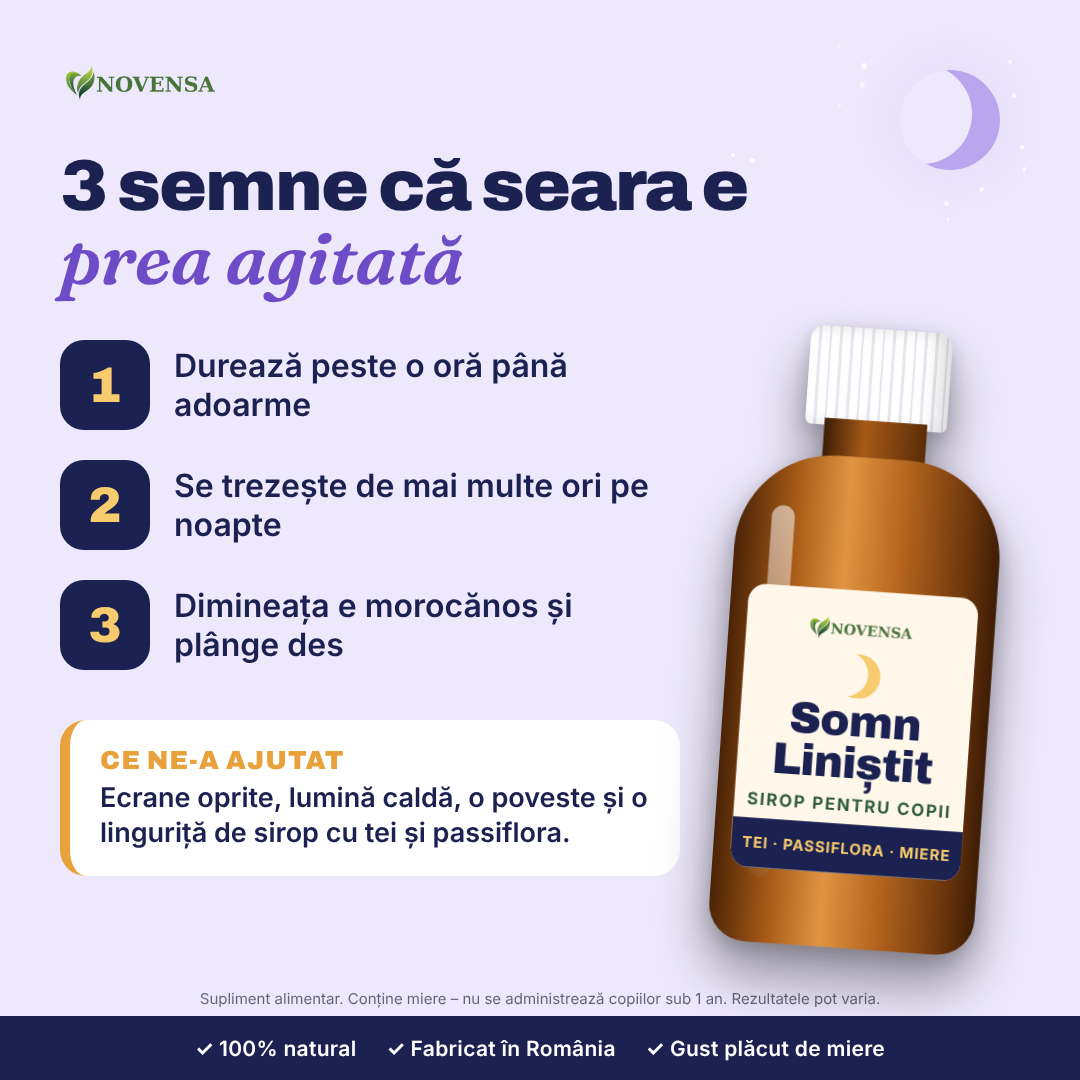
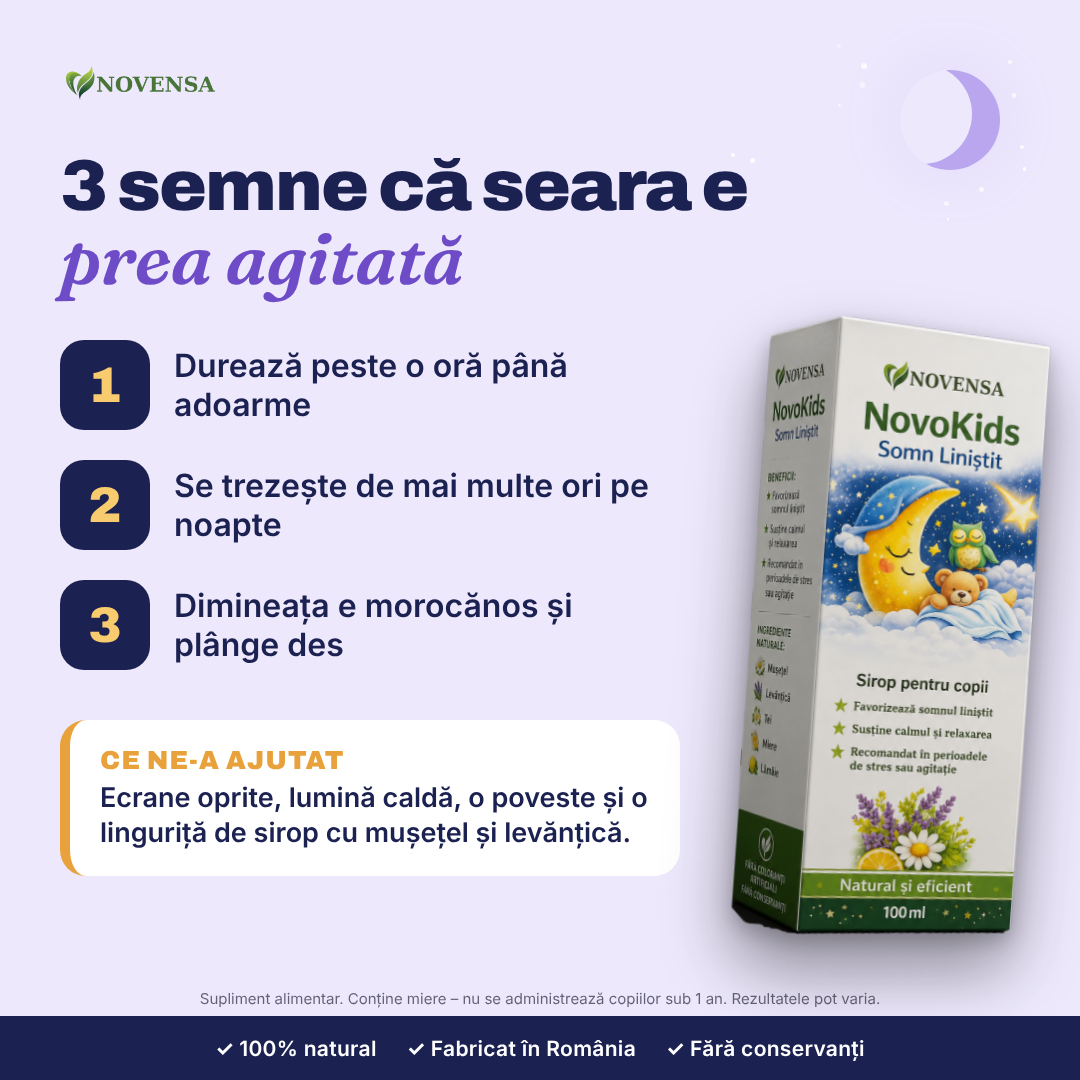
Use real NovoKids box in kids sleep ads; match copy to box ingredients
Box lists chamomile, lavender, linden, honey, lemon (no passionflower),
so ad copy and ingredient icons follow the packaging.

Claude-Session: https://claude.ai/code/session_01Jq63QRdcYFJUVrB9UqU5c4

Changed region(s): [[0.6417, 0.275, 1.0, 0.9167], [0.1833, 0.9472, 0.825, 0.9778], [0.3361, 0.7639, 0.5806, 0.7944]]

diff --git a/brand/somn-copii/ads.js b/brand/somn-copii/ads.js
@@ -1,7 +1,7 @@
 // Novokids Somn Liniștit (sirop pentru copii) – 10 statice Facebook/Instagram, 1080x1080.
 // Render: node render.js [id-filter]
-// Poza reală a sticlei: pune un PNG decupat (fundal transparent) în somn-copii/product.png și re-randează.
-// Până atunci se folosește o sticlă ilustrată (placeholder).
+// Produsul: somn-copii/product.png (cutia NovoKids decupată din sirsom.png). Fără el se folosește o sticlă ilustrată.
+// Ingrediente conform cutiei: mușețel, levănțică, tei, miere, lămâie.
 const fs = require('fs'), path = require('path');
 
 const FONTS = `
@@ -70,10 +70,10 @@ const bottle = (h, x, y, rot = 0) => fs.existsSync(REAL)
   : `<div class="btl" style="left:${x}px;top:${y}px;transform:rotate(${rot}deg) scale(${(h / 700).toFixed(3)})">
       <div class="cap"></div><div class="neck"></div>
       <div class="body"><div class="shine"></div><div class="label"><img src="${LOGO}"><div class="moonl"></div>
-      <b>Somn<br>Liniștit</b><small>sirop pentru copii</small><div class="band">TEI · PASSIFLORA · MIERE</div></div></div></div>`;
+      <b>Somn<br>Liniștit</b><small>sirop pentru copii</small><div class="band">MUȘEȚEL · LEVĂNȚICĂ · TEI</div></div></div></div>`;
 const logo = (x, y, h = 46, extra = '') => `<img class="logo" src="${LOGO}" style="left:${x}px;top:${y}px;height:${h}px;${extra}">`;
 const white = 'filter:brightness(0) invert(1)';
-const foot = (bg, fg) => `<div class="foot" style="background:${bg};color:${fg}"><span>100% natural</span><span>Fabricat în România</span><span>Gust plăcut de miere</span></div>`;
+const foot = (bg, fg) => `<div class="foot" style="background:${bg};color:${fg}"><span>100% natural</span><span>Fabricat în România</span><span>Fără conservanți</span></div>`;
 const disc = (c = C.ink, t = 'Supliment alimentar. Conține miere – nu se administrează copiilor sub 1 an. Rezultatele pot varia.') => `<div class="disc" style="color:${c}">${t}</div>`;
 const page = (css, body) => `<!doctype html><html lang="ro"><head><meta charset="utf-8"><style>${CSS}${css}</style></head><body>${body}</body></html>`;
 
@@ -94,6 +94,9 @@ const ico = {
   pasi: () => `<svg viewBox="0 0 100 100">${Array.from({ length: 10 }, (_, i) => `<ellipse cx="50" cy="22" rx="9" ry="22" fill="#fff" stroke="#B9A6EE" stroke-width="2" transform="rotate(${i * 36} 50 50)"/>`).join('')}${Array.from({ length: 24 }, (_, i) => `<line x1="50" y1="50" x2="50" y2="22" stroke="#6E4BC7" stroke-width="2.4" transform="rotate(${i * 15} 50 50)"/>`).join('')}<circle cx="50" cy="50" r="12" fill="#8DBE5A"/><circle cx="50" cy="50" r="5" fill="#F2C94C"/></svg>`,
   miere: () => `<svg viewBox="0 0 100 100"><path d="M50 10C50 10 22 46 22 64a28 28 0 0 0 56 0C78 46 50 10 50 10Z" fill="#E9A23B"/><ellipse cx="40" cy="62" rx="6" ry="12" fill="#fff" opacity=".45"/></svg>`,
   apa: () => `<svg viewBox="0 0 100 100"><path d="M50 10C50 10 22 46 22 64a28 28 0 0 0 56 0C78 46 50 10 50 10Z" fill="#6FB7E8"/><ellipse cx="40" cy="62" rx="6" ry="12" fill="#fff" opacity=".55"/></svg>`,
+  musetel: () => `<svg viewBox="0 0 100 100">${Array.from({ length: 14 }, (_, i) => `<ellipse cx="50" cy="24" rx="7" ry="20" fill="#fff" stroke="#E4E0D4" stroke-width="1.5" transform="rotate(${i * 25.7} 50 50)"/>`).join('')}<circle cx="50" cy="50" r="15" fill="#F5B92E"/><circle cx="46" cy="46" r="5" fill="#FFD866"/></svg>`,
+  lavanda: () => `<svg viewBox="0 0 100 100"><path d="M50 95V30" stroke="#6B9A4A" stroke-width="4" stroke-linecap="round"/><path d="M50 70 34 58M50 78 66 66" stroke="#6B9A4A" stroke-width="3.5" stroke-linecap="round"/>${[14, 24, 34, 44, 54].map((y, i) => `<ellipse cx="${i % 2 ? 57 : 43}" cy="${y}" rx="8" ry="6" fill="${i % 2 ? '#8E6FD8' : '#A68BE6'}"/><ellipse cx="${i % 2 ? 43 : 57}" cy="${y + 4}" rx="8" ry="6" fill="#7A5AC9"/>`).join('')}</svg>`,
+  lamaie: () => `<svg viewBox="0 0 100 100"><circle cx="50" cy="50" r="40" fill="#F5C518"/><circle cx="50" cy="50" r="33" fill="#FFF3B0"/>${Array.from({ length: 8 }, (_, i) => `<path d="M50 50 L${50 + 30 * Math.cos(i * Math.PI / 4 - .3)} ${50 + 30 * Math.sin(i * Math.PI / 4 - .3)} A30 30 0 0 1 ${50 + 30 * Math.cos(i * Math.PI / 4 + .3)} ${50 + 30 * Math.sin(i * Math.PI / 4 + .3)}Z" fill="#FFD84A"/>`).join('')}<circle cx="50" cy="50" r="4" fill="#fff"/></svg>`,
   cup: () => `<svg viewBox="0 0 200 170"><path d="M60 30c-6-14 8-18 2-30M100 30c-6-14 8-18 2-30" stroke="#C9B79A" stroke-width="5" fill="none" stroke-linecap="round"/><path d="M20 50h140v40a70 70 0 0 1-140 0Z" fill="#fff" stroke="#E2D3B8" stroke-width="4"/><path d="M160 64c30 0 30 44 0 44" stroke="#E2D3B8" stroke-width="12" fill="none"/><ellipse cx="90" cy="54" rx="66" ry="8" fill="#D9A441"/><ellipse cx="90" cy="162" rx="90" ry="8" fill="#000" opacity=".08"/></svg>`,
 };
 const leaf = (s, x, y, rot, c = C.linden, o = 1) => `<div class="abs" style="left:${x}px;top:${y}px;width:${s}px;height:${s}px;transform:rotate(${rot}deg);opacity:${o}">${ico.tei(c)}</div>`;
@@ -108,7 +111,7 @@ ads.push({ id: 'S01-ora-2347', html: page(`body{background:radial-gradient(circl
   ${logo(60, 60, 44, white)}
   <div class="abs clock" style="left:56px;top:150px">23:47</div>
   <div class="abs h" style="left:60px;top:340px;width:600px;font-size:62px">A treia trezire<br>în seara asta.</div>
-  <div class="abs it" style="left:60px;top:490px;width:600px;font-size:54px;line-height:1.1;color:${C.lav}">Până am descoperit siropul cu tei și floarea pasiunii.</div>
+  <div class="abs it" style="left:60px;top:490px;width:600px;font-size:50px;line-height:1.1;color:${C.lav}">Până am descoperit siropul cu mușețel, levănțică și tei.</div>
   <div class="abs" style="left:60px;top:690px;display:flex;flex-direction:column;gap:14px">
     <div class="pill" style="background:${C.moon};color:${C.night}">🌙 O linguriță seara</div>
     <div class="pill" style="background:rgba(255,255,255,.12);color:#fff">Relaxat în 20–30 de minute*</div></div>
@@ -116,18 +119,18 @@ ads.push({ id: 'S01-ora-2347', html: page(`body{background:radial-gradient(circl
   ${bottle(700, 720, 250, 5)}${disc('#cfd1ef')}${foot(C.moon, C.night)}`) });
 
 // 2. Doar 4 ingrediente – persona C (mama naturistă)
-const ing4 = [['tei', 'Flori de tei', 'calm blând', 70, 380, C.linden], ['pasi', 'Floarea pasiunii', 'relaxare naturală', 70, 620, null], ['miere', 'Miere polifloră', 'gust plăcut', 760, 380, null], ['apa', 'Apă purificată', 'atât.', 760, 620, null]];
-ads.push({ id: 'S02-4-ingrediente', html: page(`body{background:${C.cream}}
+const ing4 = [['musetel', 'Mușețel', 'calm blând', 60, 310, null], ['lavanda', 'Levănțică', 'relaxare', 60, 520, null], ['tei', 'Tei', '„ceaiul bunicii”', 60, 730, C.linden], ['miere', 'Miere', 'gust plăcut', 750, 400, null], ['lamaie', 'Lămâie', 'prospețime', 750, 620, null]];
+ads.push({ id: 'S02-5-ingrediente', html: page(`body{background:${C.cream}}
   .ing{position:absolute;width:270px;display:flex;flex-direction:column;align-items:center;text-align:center}
-  .ing .c{width:130px;height:130px;border-radius:50%;background:#fff;box-shadow:0 12px 30px rgba(120,90,40,.15);display:flex;align-items:center;justify-content:center}
+  .ing .c{width:120px;height:120px;border-radius:50%;background:#fff;box-shadow:0 12px 30px rgba(120,90,40,.15);display:flex;align-items:center;justify-content:center}
   .ing .c svg{width:84px;height:84px}
   .ing b{margin-top:14px;font:900 30px Archivo;color:${C.night};letter-spacing:-.5px}.ing small{font:400 24px Inter;color:#6b6457}`,
   `${leaf(160, -40, 860, 30, C.linden, .25)}${leaf(120, 960, 220, -20, C.linden, .25)}
   ${logo(440, 50, 46)}
-  <div class="abs h" style="left:0;right:0;top:140px;text-align:center;font-size:80px;color:${C.night}">Doar <span class="it" style="color:${C.honey}">4 ingrediente.</span></div>
-  <div class="abs" style="left:0;right:0;top:240px;text-align:center;font:600 32px Inter;color:#5d5648">Știi exact ce îi dai celui mic.</div>
+  <div class="abs h" style="left:0;right:0;top:135px;text-align:center;font-size:66px;color:${C.night}">5 ingrediente. <span class="it" style="color:${C.honey}">100% naturale.</span></div>
+  <div class="abs" style="left:0;right:0;top:225px;text-align:center;font:600 30px Inter;color:#5d5648">Fără coloranți artificiali · Fără conservanți</div>
   ${ing4.map(([k, n, s, x, y, c]) => `<div class="ing" style="left:${x}px;top:${y}px"><div class="c">${ico[k](c)}</div><b>${n}</b><small>${s}</small></div>`).join('')}
-  ${bottle(620, 410, 330)}${disc()}${foot(C.night, '#fff')}`) });
+  ${bottle(640, 395, 300)}${disc()}${foot(C.night, '#fff')}`) });
 
 // 3. Seara: înainte / acum – persona B
 ads.push({ id: 'S03-seara-inainte-acum', html: page(`body{background:#fff}
@@ -191,8 +194,8 @@ ads.push({ id: 'S07-reteta-bunicii', html: page(`body{background:${C.sand}}
   `${leaf(150, 860, 40, 25)}${leaf(110, 960, 170, -15, C.leaf)}${leaf(130, -30, 880, 40, C.leaf, .5)}
   ${logo(60, 60, 46)}
   <div class="abs h" style="left:60px;top:160px;width:640px;font-size:84px;color:${C.leaf}">Rețeta bunicii,<br><span class="it" style="color:${C.honey}">într-o linguriță.</span></div>
-  <div class="note"><div class="hand" style="font-size:46px;line-height:1.08;color:#4a3b22">„Pe vremea noastră, la culcare era ceai de tei. Acum e tei, floarea pasiunii și miere – și îl beau cu plăcere!”</div>
-  <div style="margin-top:14px;font:700 22px Inter;color:#8a7650">– Bunica Maria 💛</div></div>
+  <div class="note"><div class="hand" style="font-size:46px;line-height:1.08;color:#4a3b22">„Pe vremea noastră, la culcare era ceai de tei. Acum e tei, mușețel, levănțică și miere – și îl beau cu plăcere!”</div>
+  <div style="margin-top:14px;font:700 22px Inter;color:#8a7650">– așa zice bunica 💛</div></div>
   <div class="abs" style="left:430px;top:770px;width:220px">${ico.cup()}</div>
   ${bottle(640, 740, 300, 4)}${disc()}${foot(C.leaf, '#fff')}`) });
 
@@ -209,7 +212,7 @@ ads.push({ id: 'S08-3-semne', html: page(`body{background:${C.lav2}}
   <div class="r" style="top:460px"><div class="n">2</div><span>Se trezește de mai multe ori pe noapte</span></div>
   <div class="r" style="top:580px"><div class="n">3</div><span>Dimineața e morocănos și plânge des</span></div>
   <div class="tip"><div style="font:900 26px Archivo;color:${C.honey};letter-spacing:1px">CE NE-A AJUTAT</div>
-  <div style="font:600 27px/1.3 Inter;color:${C.night};margin-top:6px">Ecrane oprite, lumină caldă, o poveste și o linguriță de sirop cu tei și passiflora.</div></div>
+  <div style="font:600 27px/1.3 Inter;color:${C.night};margin-top:6px">Ecrane oprite, lumină caldă, o poveste și o linguriță de sirop cu mușețel și levănțică.</div></div>
   ${bottle(620, 750, 320, 4)}${disc()}${foot(C.night, '#fff')}`) });
 
 // 9. Plot twist – tati a adormit primul (umor)
@@ -219,7 +222,7 @@ ads.push({ id: 'S09-plot-twist', html: page(`body{background:radial-gradient(cir
   ${logo(60, 60, 44, white)}
   <div class="abs hand" style="left:60px;top:150px;font-size:100px;color:${C.moon};transform:rotate(-4deg)">Plot twist:</div>
   <div class="abs h" style="left:60px;top:290px;width:620px;font-size:78px">cel mic a adormit <span class="it" style="color:${C.lav}">înaintea lui tati.</span></div>
-  <div class="abs" style="left:60px;top:560px;width:600px;font:600 31px/1.35 Inter;color:#d6d8f2">😂 Ritualul de seară + siropul cu tei și floarea pasiunii. Iar noi am reușit, în sfârșit, să ne vedem filmul. 🍿</div>
+  <div class="abs" style="left:60px;top:560px;width:600px;font:600 31px/1.35 Inter;color:#d6d8f2">😂 Ritualul de seară + siropul cu mușețel, levănțică și tei. Iar noi am reușit, în sfârșit, să ne vedem filmul. 🍿</div>
   <div class="btn" style="left:60px;top:780px;background:${C.moon};color:${C.night}">Comandă acum →</div>
   <div class="z" style="left:800px;top:230px;font-size:70px;transform:rotate(-10deg)">Z</div>
   <div class="z" style="left:860px;top:170px;font-size:54px;transform:rotate(-6deg)">z</div>
@@ -235,11 +238,12 @@ ads.push({ id: 'S10-din-romania', html: page(`body{background:linear-gradient(16
   ${logo(60, 60, 46, white)}
   <div class="abs" style="left:60px;top:150px;font:800 28px Inter;letter-spacing:3px;color:${C.moon}">🇷🇴 PRODUS ÎN ROMÂNIA</div>
   <div class="abs h" style="left:56px;top:200px;width:660px;font-size:72px">Din natura României, <span class="it" style="color:${C.moon}">pentru somnul celui mic.</span></div>
-  <div class="abs" style="left:60px;top:540px;display:flex;flex-direction:column;gap:16px;align-items:flex-start">
+  <div class="abs" style="left:60px;top:500px;display:flex;flex-direction:column;gap:14px;align-items:flex-start">
     <div class="chip"><span>${ico.tei(C.linden)}</span>Flori de tei</div>
-    <div class="chip"><span>${ico.pasi()}</span>Floarea pasiunii</div>
-    <div class="chip"><span>${ico.miere()}</span>Miere polifloră</div></div>
-  <div class="abs" style="left:60px;top:860px;font:600 28px Inter;color:#dfeccf">Fără coloranți. Fără compromisuri.</div>
+    <div class="chip"><span>${ico.musetel()}</span>Mușețel</div>
+    <div class="chip"><span>${ico.lavanda()}</span>Levănțică</div>
+    <div class="chip"><span>${ico.miere()}</span>Miere și lămâie</div></div>
+  <div class="abs" style="left:60px;top:880px;font:600 26px Inter;color:#dfeccf">Fără coloranți artificiali. Fără conservanți.</div>
   ${bottle(660, 740, 280, -4)}${disc('#dfeccf')}${foot(C.moon, C.leaf)}`) });
 
 module.exports = ads;
